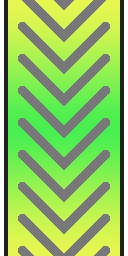
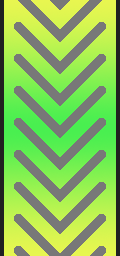
shock arrows

diff --git a/src/styles.css b/src/styles.css
@@ -79,6 +79,7 @@ body {
 
 /* .chart-event-hold */
 .chart-event-hold .event-note {
+  background-repeat-y: repeat;
   height: 100%;
 }
 
@@ -134,6 +135,7 @@ body {
 
 .event-note {
   background-size: 100%;
+  background-position: center;
   display: inline-block;
   height: 1em;
   position: relative;
@@ -173,6 +175,7 @@ body {
 }
 
 .note-val-3,
+.note-val-M,
 .note-val-h {
   transform: none;
 }
@@ -207,6 +210,22 @@ body {
 
 .note-val-h.note-3 {
   background-image: url('assets/hold-right-body.png');
+}
+
+.note-val-M.note-0 {
+  background-image: url('assets/arrow-shock-left.png');
+}
+
+.note-val-M.note-1 {
+  background-image: url('assets/arrow-shock-down.png');
+}
+
+.note-val-M.note-2 {
+  background-image: url('assets/arrow-shock-up.png');
+}
+
+.note-val-M.note-3 {
+  background-image: url('assets/arrow-shock-right.png');
 }
 
 .stop-combo {
